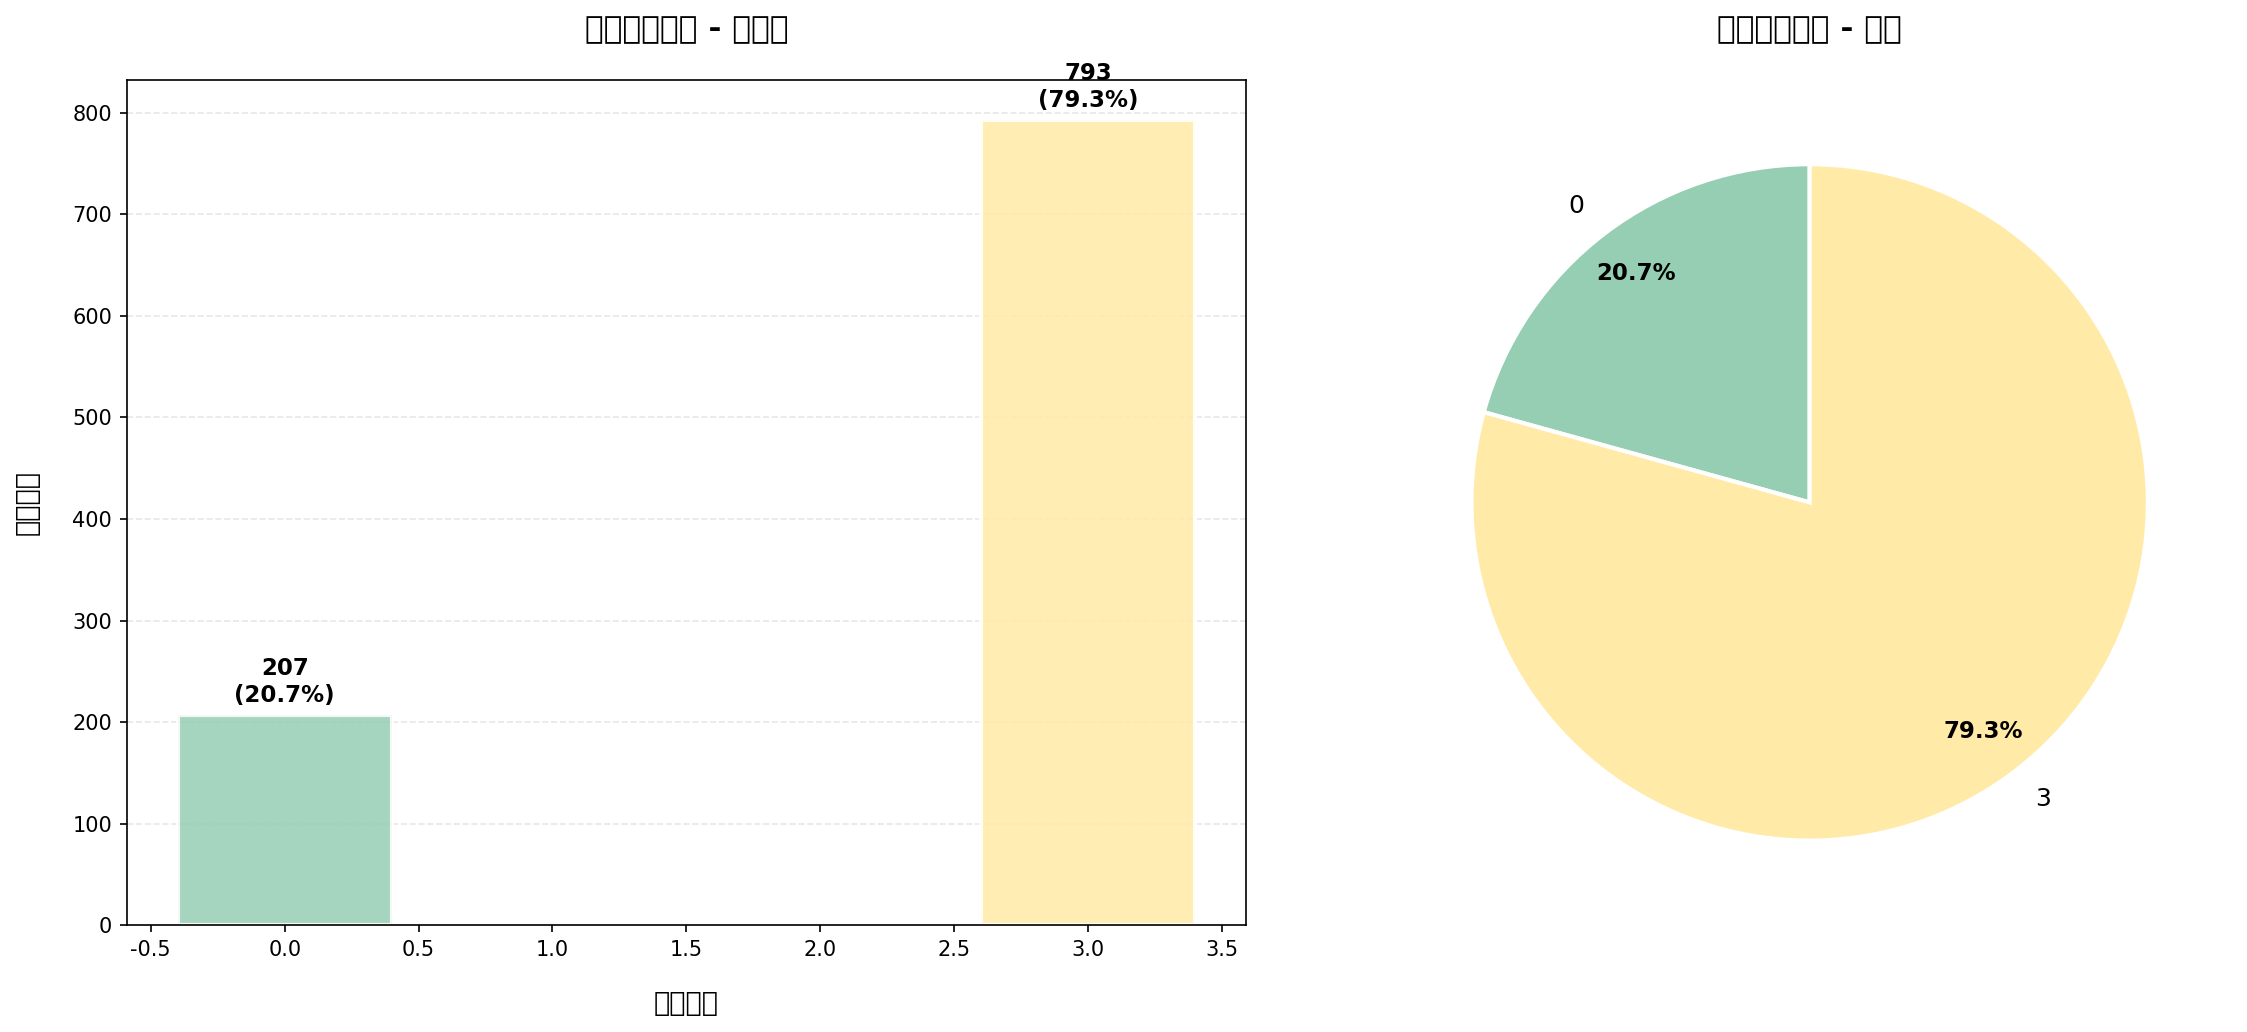
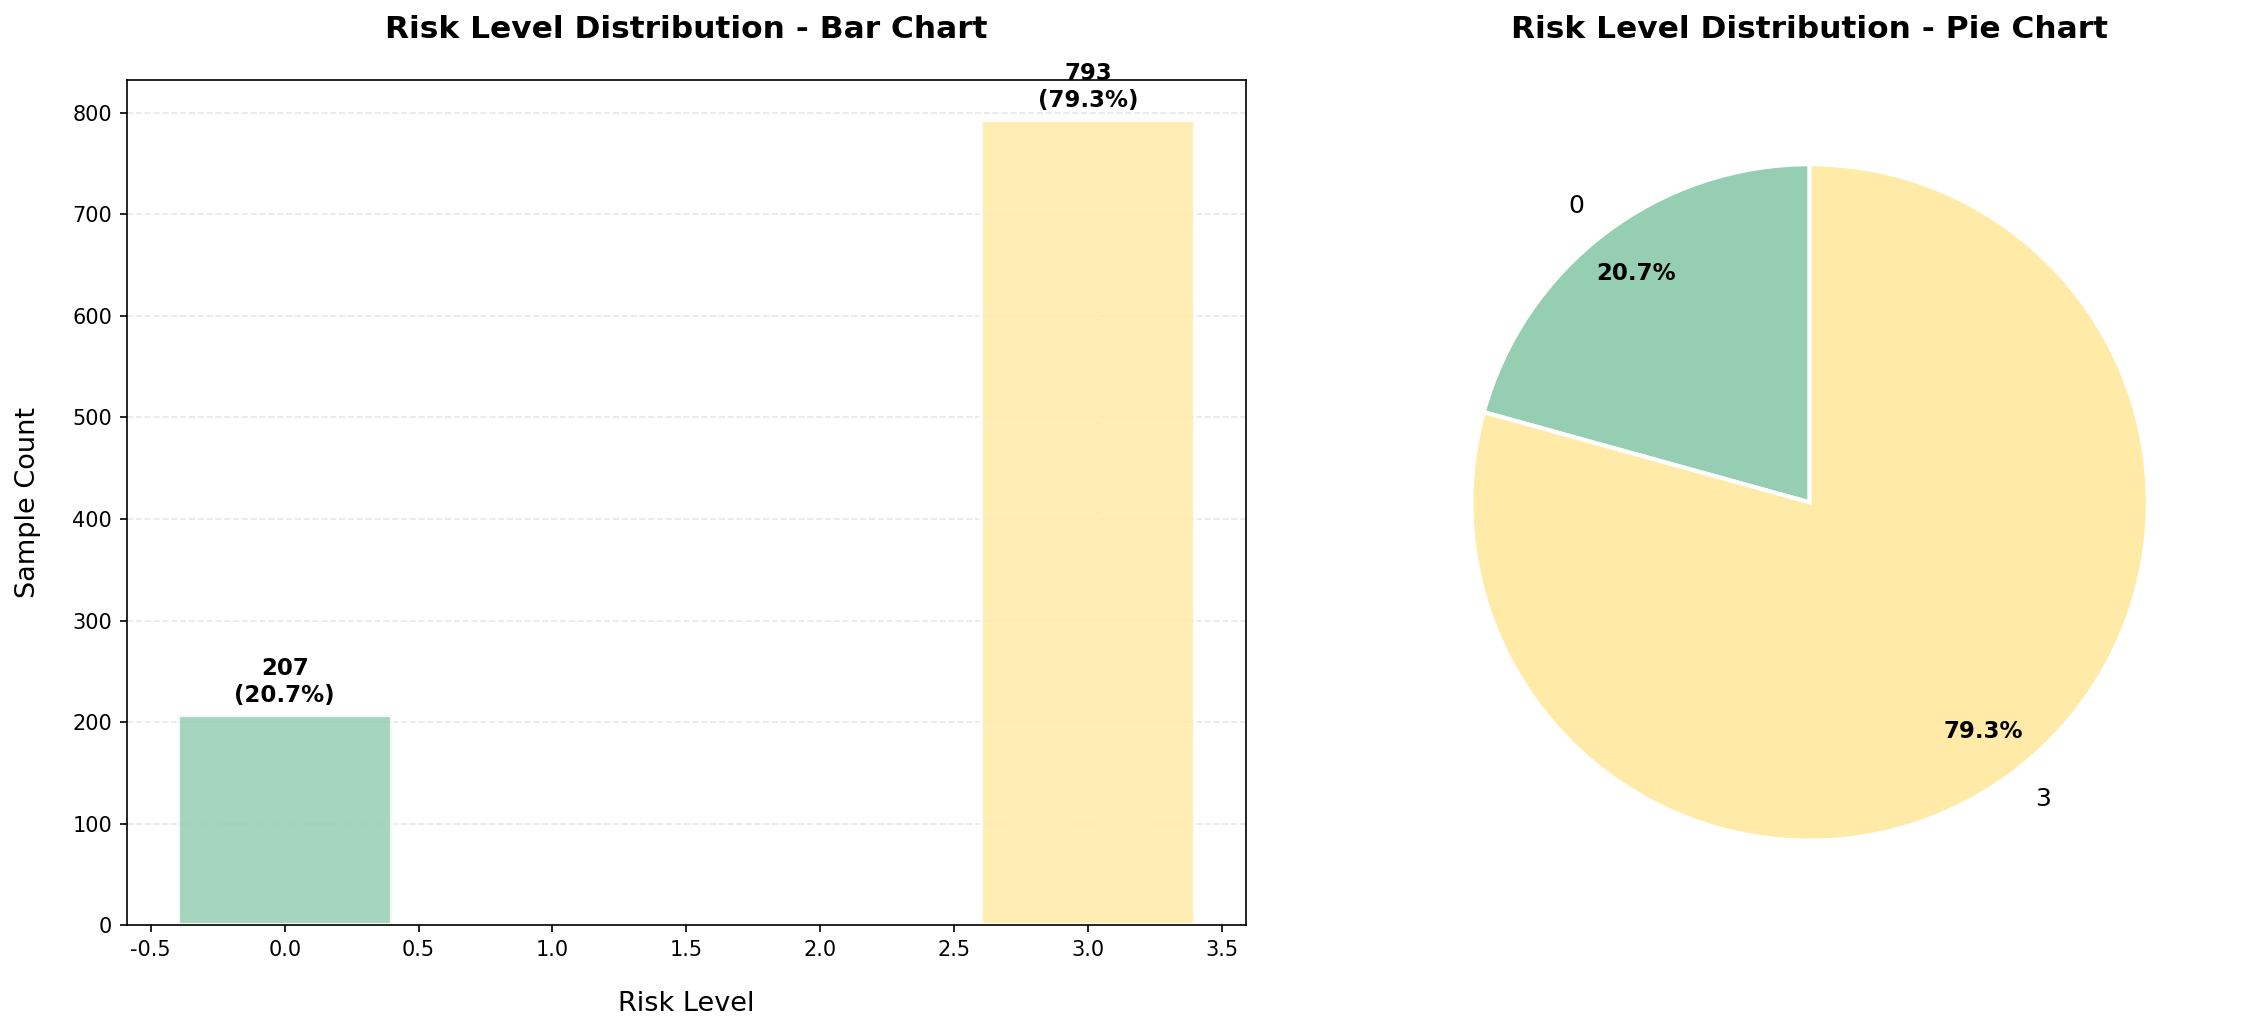
feat: 测试仓库代码

diff --git a/Project_mat/generate_beautiful_charts.py b/Project_mat/generate_beautiful_charts.py
@@ -6,13 +6,20 @@ from matplotlib.colors import LinearSegmentedColormap
 from matplotlib import rcParams
 
 rcParams['font.family'] = ['sans-serif']
-rcParams['font.sans-serif'] = ['Arial', 'DejaVu Sans', 'Liberation Sans']
 rcParams['axes.unicode_minus'] = False
 
 def plot_radar_chart(df, features):
     """绘制美观的雷达图"""
     feature_means = df[features].mean().tolist()
-    categories = features
+    
+    feature_names_en = {
+        'HDL-C（高密度脂蛋白）': 'HDL-C',
+        'LDL-C（低密度脂蛋白）': 'LDL-C',
+        'TG（甘油三酯）': 'TG',
+        'TC（总胆固醇）': 'TC',
+        'BMI': 'BMI'
+    }
+    categories = [feature_names_en.get(f, f) for f in features]
     N = len(categories)
     
     angles = [n / float(N) * 2 * np.pi for n in range(N)]
@@ -24,7 +31,7 @@ def plot_radar_chart(df, features):
     colors = ['#FF6B6B', '#4ECDC4', '#45B7D1', '#96CEB4', '#FFEAA7']
     values = feature_means + feature_means[:1]
     
-    ax.plot(angles, values, 'o-', linewidth=4, color=colors[1], label='特征均值')
+    ax.plot(angles, values, 'o-', linewidth=4, color=colors[1], label='Feature Mean')
     ax.fill(angles, values, alpha=0.35, color=colors[1])
     
     ax.set_xticks(angles[:-1])
@@ -35,12 +42,12 @@ def plot_radar_chart(df, features):
     ax.spines['polar'].set_color('#E0E0E0')
     ax.grid(color='#E0E0E0', linestyle='--', linewidth=0.8)
     
-    ax.set_title('特征雷达图分析', fontsize=16, pad=40, fontweight='bold')
+    ax.set_title('Feature Radar Chart', fontsize=16, pad=40, fontweight='bold')
     ax.legend(loc='upper right', bbox_to_anchor=(1.3, 1.1), fontsize=11)
     
     plt.tight_layout()
     plt.savefig('radar_chart.png', dpi=150, bbox_inches='tight')
-    print("✅ 雷达图已保存: radar_chart.png")
+    print("✅ Radar chart saved: radar_chart.png")
     plt.show()
 
 def plot_risk_distribution(df):
@@ -62,9 +69,9 @@ def plot_risk_distribution(df):
         alpha=0.85
     )
     
-    ax1.set_xlabel('风险等级', fontsize=13, fontweight='medium', labelpad=15)
-    ax1.set_ylabel('样本数量', fontsize=13, fontweight='medium', labelpad=15)
-    ax1.set_title('风险等级分布 - 柱状图', fontsize=15, pad=20, fontweight='bold')
+    ax1.set_xlabel('Risk Level', fontsize=13, fontweight='medium', labelpad=15)
+    ax1.set_ylabel('Sample Count', fontsize=13, fontweight='medium', labelpad=15)
+    ax1.set_title('Risk Level Distribution - Bar Chart', fontsize=15, pad=20, fontweight='bold')
     
     for bar, count in zip(bars, risk_counts.values):
         height = bar.get_height()
@@ -97,11 +104,11 @@ def plot_risk_distribution(df):
         autotext.set_fontsize(11)
         autotext.set_fontweight('bold')
     
-    ax2.set_title('风险等级分布 - 饼图', fontsize=15, pad=20, fontweight='bold')
+    ax2.set_title('Risk Level Distribution - Pie Chart', fontsize=15, pad=20, fontweight='bold')
     
     plt.tight_layout()
     plt.savefig('risk_distribution.png', dpi=150, bbox_inches='tight')
-    print("✅ 风险分布图已保存: risk_distribution.png")
+    print("✅ Risk distribution chart saved: risk_distribution.png")
     plt.show()
 
 def plot_shap_summary_style(df):
@@ -114,20 +121,60 @@ def plot_shap_summary_style(df):
     top_features = [features[i] for i in sorted_idx[:10]]
     top_importances = importances[sorted_idx[:10]]
     
+    feature_names_en = {
+        '体质标签': 'Constitution',
+        '平和质': 'Pinghe',
+        '气虚质': 'Qixu',
+        '阳虚质': 'Yangxu',
+        '阴虚质': 'Yinxu',
+        '痰湿质': 'Tanshi',
+        '湿热质': 'Shire',
+        '血瘀质': 'Xueyu',
+        '气郁质': 'Qiyu',
+        '特禀质': 'Tebing',
+        'ADL用厕': 'ADL_Toilet',
+        'ADL吃饭': 'ADL_Eat',
+        'ADL步行': 'ADL_Walk',
+        'ADL穿衣': 'ADL_Dress',
+        'ADL洗澡': 'ADL_Bath',
+        'ADL总分': 'ADL_Total',
+        'IADL购物': 'IADL_Shopping',
+        'IADL做饭': 'IADL_Cook',
+        'IADL理财': 'IADL_Finance',
+        'IADL交通': 'IADL_Transport',
+        'IADL服药': 'IADL_Medication',
+        'IADL总分': 'IADL_Total',
+        '活动量表总分（ADL总分+IADL总分）': 'Activity_Total',
+        'HDL-C（高密度脂蛋白）': 'HDL_C',
+        'LDL-C（低密度脂蛋白）': 'LDL_C',
+        'TG（甘油三酯）': 'TG',
+        'TC（总胆固醇）': 'TC',
+        '空腹血糖': 'Fasting_Glucose',
+        '血尿酸': 'Uric_Acid',
+        'BMI': 'BMI',
+        '高血脂症二分类标签': 'Hyperlipidemia',
+        '血脂异常分型标签（确诊病例）': 'Dyslipidemia_Type',
+        '年龄组': 'Age_Group',
+        '性别': 'Gender',
+        '吸烟史': 'Smoking',
+        '饮酒史': 'Drinking'
+    }
+    top_features_en = [feature_names_en.get(f, f) for f in top_features]
+    
     fig, ax = plt.subplots(figsize=(14, 10), dpi=100)
     
     colors = ['#FF6B6B', '#4ECDC4', '#45B7D1', '#96CEB4', '#FFEAA7', 
               '#DDA0DD', '#87CEEB', '#98FB98', '#FFDAB9', '#F0E68C']
     
-    y_pos = np.arange(len(top_features))
-    bars = ax.barh(y_pos, top_importances, color=colors[:len(top_features)], edgecolor='white', linewidth=2)
+    y_pos = np.arange(len(top_features_en))
+    bars = ax.barh(y_pos, top_importances, color=colors[:len(top_features_en)], edgecolor='white', linewidth=2)
     
     ax.set_yticks(y_pos)
-    ax.set_yticklabels(top_features, fontsize=11)
+    ax.set_yticklabels(top_features_en, fontsize=11)
     ax.invert_yaxis()
     
-    ax.set_xlabel('重要性评分', fontsize=13, fontweight='medium', labelpad=15)
-    ax.set_title('特征重要性分析', fontsize=16, pad=25, fontweight='bold')
+    ax.set_xlabel('Importance Score', fontsize=13, fontweight='medium', labelpad=15)
+    ax.set_title('Feature Importance Analysis', fontsize=16, pad=25, fontweight='bold')
     
     for i, (bar, imp) in enumerate(zip(bars, top_importances)):
         width = bar.get_width()
@@ -139,11 +186,11 @@ def plot_shap_summary_style(df):
     
     plt.tight_layout()
     plt.savefig('shap_summary.png', dpi=150, bbox_inches='tight')
-    print("✅ 特征重要性图已保存: shap_summary.png")
+    print("✅ Feature importance chart saved: shap_summary.png")
     plt.show()
 
 def main():
-    print("开始生成美观的可视化图表...")
+    print("Generating beautiful visualizations...")
     
     FINAL_DATA_PATH = 'data/processed/final_data.pkl'
     PREPROCESSED_DATA_PATH = 'data/processed/preprocessed_data.pkl'
@@ -151,17 +198,17 @@ def main():
     df_final = pd.read_pickle(FINAL_DATA_PATH)
     df_preprocessed = pd.read_pickle(PREPROCESSED_DATA_PATH)
     
-    print("\n1. 生成风险分布图...")
+    print("\n1. Generating risk distribution chart...")
     plot_risk_distribution(df_final)
     
-    print("\n2. 生成特征重要性图...")
+    print("\n2. Generating feature importance chart...")
     plot_shap_summary_style(df_final)
     
-    print("\n3. 生成雷达图...")
+    print("\n3. Generating radar chart...")
     radar_features = ['HDL-C（高密度脂蛋白）', 'LDL-C（低密度脂蛋白）', 'TG（甘油三酯）', 'TC（总胆固醇）', 'BMI']
     plot_radar_chart(df_preprocessed, radar_features)
     
-    print("\n🎉 所有图表生成完成！")
+    print("\n🎉 All charts generated successfully!")
 
 if __name__ == "__main__":
     main()

diff --git a/Project_mat/src/_05_visualization.py b/Project_mat/src/_05_visualization.py
@@ -7,8 +7,7 @@ import shap
 from matplotlib.colors import LinearSegmentedColormap
 from matplotlib import rcParams
 
-rcParams['font.family'] = ['sans-serif']
-rcParams['font.sans-serif'] = ['Arial', 'DejaVu Sans', 'Liberation Sans']
+rcParams['font.family'] = ['SimHei', 'WenQuanYi Micro Hei', 'Heiti TC', 'sans-serif']
 rcParams['axes.unicode_minus'] = False
 
 def plot_shap_values(model, X, features):
